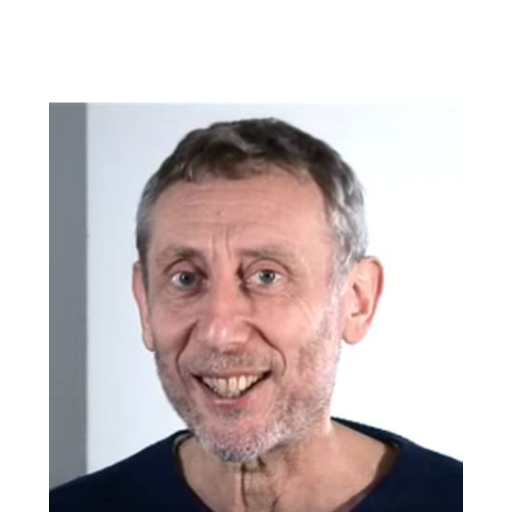
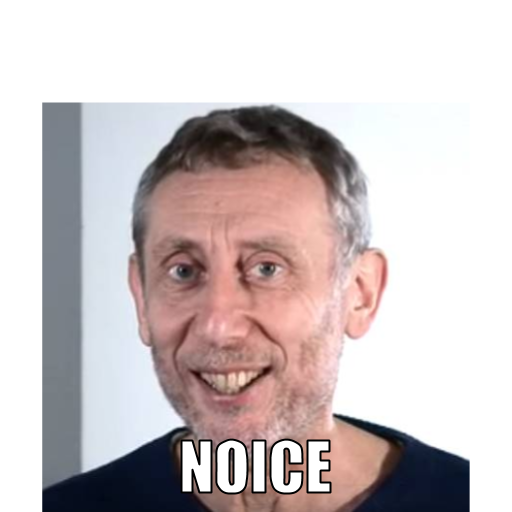
big update, long overdue

diff --git a/bot.py b/bot.py
@@ -1,7 +1,7 @@
 import discord
 from discord.ext import commands
 from random import randint
-from imageStuff import makeMeme
+from imagestuff2 import makeMeme
 from pyjokes import get_joke
 import json
 
@@ -10,6 +10,54 @@ with open('secrets.json') as f:
 
 client = commands.Bot(command_prefix='!')
 client.remove_command("help")
+
+commands_list={
+    "help": "`!help <command>`\nDisplays details about a specific command, or all commands if <command> field is empty",
+    "meme": "`!meme <name of meme> <text>`\nCreates a meme based on the name of the meme you provided, and the text you input.\nAcceptable meme names can be found by typing `!memes`\nNote: If you just want the template, put 'template' as your text.",
+    "memes": "`!memes`\nDisplays the list of acceptable meme names",
+    "anon": "`!anon <text>`\nSends a message anonymously (deletes the command)",
+    "joke": "`!joke`\nDisplays a random programming joke",
+    "ask": "`!ask <text>`\nAsk advice or a yes/no question to the all-knowing meme bot and see its response",
+    "flip": "`!flip`\nFlips a coin (heads or tails)",
+    "roll": "`!roll <num>`\nRolls a die with <num> sides",
+    "verify": "`!verify <Full Name>`\nVerifies you into the server if you are registered via the Google Form",
+    "purge": "`!purge <limit>`\n**ADMIN ONLY!**\nDeletes a certain number of messages"
+}
+
+memesList="""
+~arthur
+~chungus
+~coffee
+~comingtogether
+~crazysponge
+~disgust
+~drake
+~everyoneisstupid
+~funnysponge
+~futurama
+~imin
+~meandtheboys
+~nice
+~noyouaint
+~ohyea
+~okconnor
+~patrick
+~pikachu
+~poorsquid
+~professional
+~sadcat
+~sadgry
+~sadsponge
+~smugsponge
+~spiderman
+~spongemock
+~stark
+~stonks
+~thisisfine
+~tom
+~uh
+"""
+
 @client.event
 async def on_ready():
     print('We have logged in as {0.user}'.format(client))
@@ -26,14 +74,7 @@ async def on_message(message):
         return
     await client.process_commands(message)
 
-
-@client.command()
-async def foo(ctx, arg):
-    await ctx.send(arg)
-
-@client.command()
-async def test(ctx, *, arg):
-    await ctx.send(arg)
+# Commands
 
 @client.command()
 async def ask(ctx, *, arg):
@@ -71,35 +112,27 @@ async def meme(ctx, fname, *, text):
     makeMeme(fname, text)
     await ctx.send(file=discord.File('out.png'))
 
+# Thank you to Wahid Bawa for allowing me to use his code for this help menu
+# View his code here: https://github.com/UWindsor-Robotics-Tech/UWin-Robotics-Robot/blob/master/robot/main.py
 @client.command()
-async def help(ctx):
-    text="""
-***MEME BOT HELP MENU***
-List of Commands:
+async def help(ctx, *, command=None):
+    embed = discord.Embed(title="HELP", colour=0xcccc00)
+    if command is None:
+        for i in commands_list:
+            embed.add_field(name=i, value=commands_list[i], inline=False)
+    elif command in commands_list:
+        embed.add_field(name=command, value=commands_list[command], inline=False)
+    else:
+        await ctx.send("This is not an existing command")
+        return
+    await ctx.send(embed=embed)
 
-**!help**
-Displays the help menu
-**!joke**
-Displays a random programming joke
-**!anon <text>**
-Sends a message anonymously (deletes the command)
-**!ask <text>**
-Ask advice or a yes/no question to the all-knowing meme bot and see it's response
-**!flip**
-Flips a coin (heads or tails)
-**!roll <num>**
-Rolls a die with <num> sides
-**!verify <Full Name>**
-Verifies you into the server if you are registered via the Google Form
-**!purge <limit>**
-ADMIN ONLY!
-Deletes a certain number of messages
-**!meme <name of meme> <text>**
-Creates a meme based on the name of the meme you provided, and the text you input.
-Acceptable meme names are: chungus, coffee, comingtogether, crazysponge, drake, imin, nice, sadcat, sadgry, sadsponge, tom, uh
-*Note: If you just want the template, put 'template' as your text.* 
-"""
-    await ctx.send(text)
+
+@client.command()
+async def memes(ctx):
+    embed = discord.Embed(title="LIST OF MEMES", colour=0xcccc00)
+    embed.add_field(name="Memes List", value=memesList, inline=False)
+    await ctx.send(embed=embed)
 
 
 @client.command()

diff --git a/imagestuff2.py b/imagestuff2.py
@@ -1,0 +1,33 @@
+from PIL import Image, ImageDraw, ImageFont
+
+
+def makeMeme(fname, text):
+    image = Image.open(f'images/{fname}.png')
+    size=45
+    font = ImageFont.truetype('impact.ttf', size)
+    draw = ImageDraw.Draw(image)
+    w,h = font.getsize(text)
+    if w<512:
+        draw.text(xy=((512-w)/2,20), text=text, fill=(0,0,0), font=font)
+    else:
+        # Need to find the middle word
+        x = int(len(text)/2)
+        for i in range(int(len(text)/2)):
+            if text[i] ==' ':
+                x = i
+        # x is the position of the last space before the middle of the text
+        w,h = font.getsize(text[x:len(text)])
+        while True:
+            if w<495:
+                break
+            else:
+                size-=1
+                font = ImageFont.truetype('impact.ttf', size)
+                w,h = font.getsize(text[x:len(text)])
+        w1,h1 = font.getsize(text[0:x])
+        w2,h2 = font.getsize(text[x:len(text)])
+        draw.text(xy=((512-w1)/2,0), text=text[0:x], fill=(0,0,0), font=font)
+        draw.text(xy=((512-w2)/2,42), text=text[x:len(text)], fill=(0,0,0), font=font)
+    image.save('out.png')
+    
+# makeMeme('chungus', 'Hello World')
